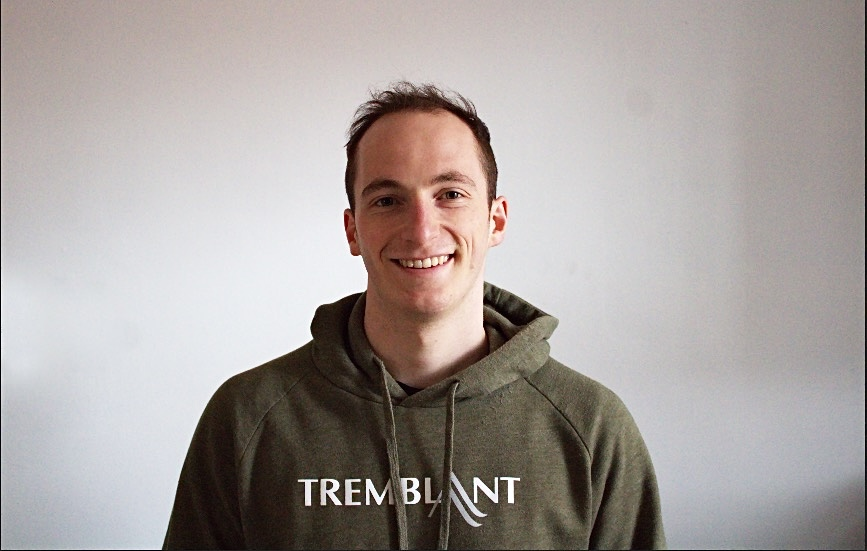
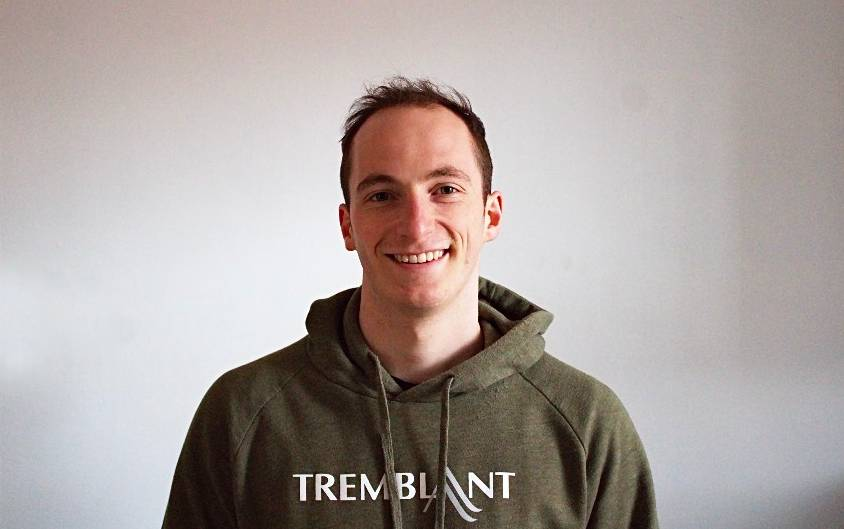
replace the image of the cqi winners instead for my face so that people can relate to who I am

diff --git a/app/src/pages/Home.jsx b/app/src/pages/Home.jsx
@@ -19,7 +19,7 @@ function HomePage() {
             <div className='col-12 col-lg-6'>
               <figure className='text-center'>
                 <img
-                  src='../assets/cqi-2024.JPG'
+                  src='../assets/headshot2.jpg'
                   className='img-fluid border rounded-3 shadow-lg w-100'
                   alt='winner of the CQI 2024'
                   loading='lazy'
